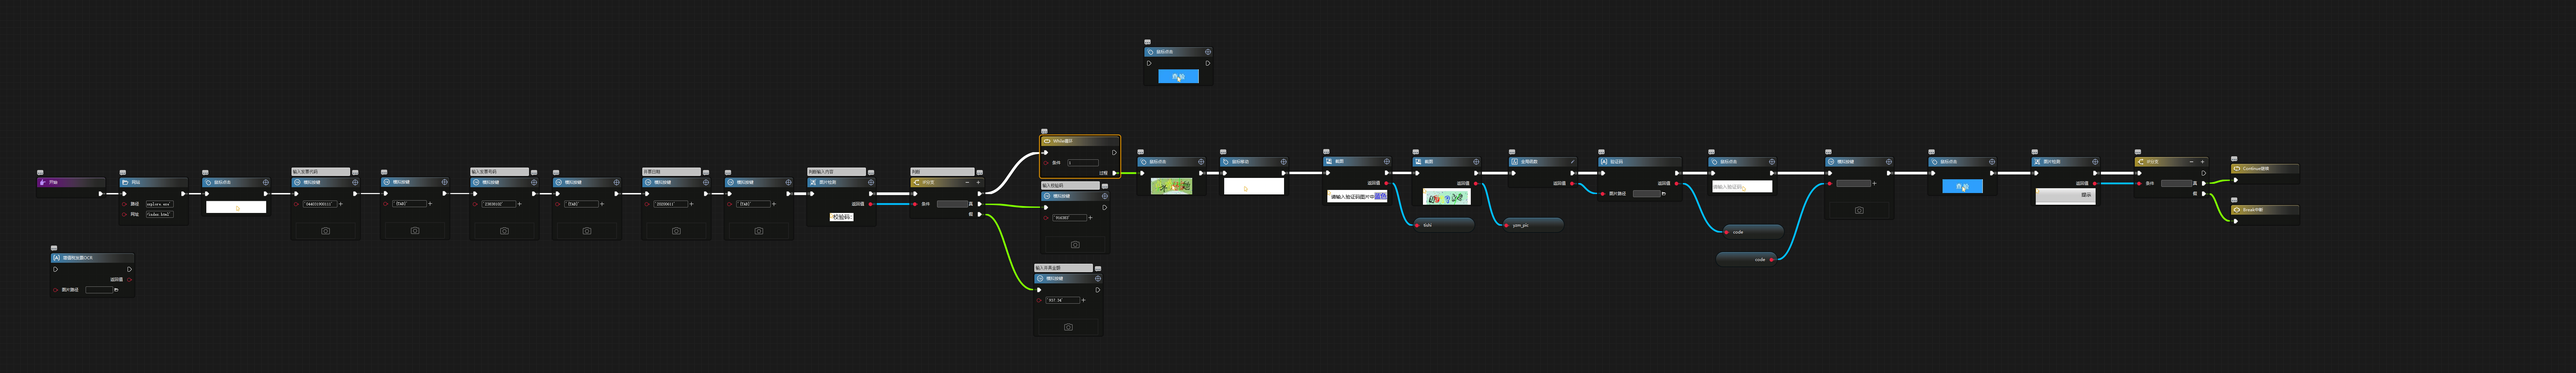
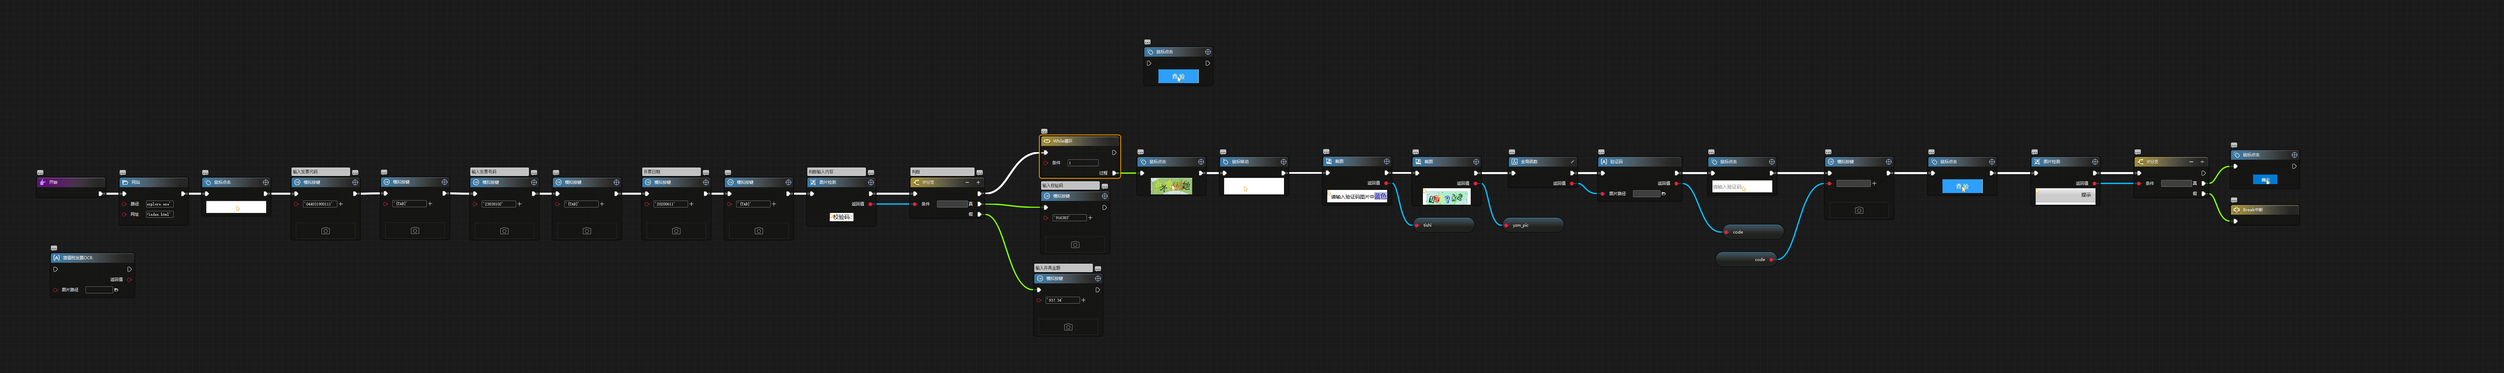
20200623153042

diff --git a/codes/Main.py b/codes/Main.py
@@ -1,5 +1,5 @@
 # coding=utf-8
-# 编译日期：2020-06-23 15:27:45
+# 编译日期：2020-06-23 15:30:42
 # 版权所有：www.i-search.com.cn
 import time
 import pdb
@@ -83,9 +83,10 @@ class lanhe_fapiao:
             # IF-N分支
             self.__logger.debug('Flow:flow1,StepNodeTag:23152627191132,Note:')
             if tvar23152545559128:
-                # Continue继续
-                self.__logger.debug('Flow:flow1,StepNodeTag:23152712119137,Note:')
-                continue
+                # 鼠标点击
+                self.__logger.debug('Flow:flow1,StepNodeTag:23152954518141,Note:')
+                iie.do_click_pos(win_title=r'国家税务总局全国增值税发票查验平台 - Internet Explorer',url=r'https://inv-veri.chinatax.gov.cn/index.html',selector=r'#popup_ok',button=r'left',curson=r'center',times=1,run_mode=r'unctrl',continue_on_error=r'break',waitfor=10)
+                time.sleep(0.8)
             else:
                 # Break中断
                 self.__logger.debug('Flow:flow1,StepNodeTag:23152722614139,Note:')

diff --git a/codes/Main_d.py b/codes/Main_d.py
@@ -1,5 +1,5 @@
 # coding=utf-8
-# 编译日期：2020-06-23 15:27:45
+# 编译日期：2020-06-23 15:30:42
 # 版权所有：www.i-search.com.cn
 import time
 import pdb
@@ -83,9 +83,10 @@ class lanhe_fapiao:
             # IF-N分支
             self.__logger.debug('Flow:flow1,StepNodeTag:23152627191132,Note:')
             if tvar23152545559128:
-                # Continue继续
-                self.__logger.debug('Flow:flow1,StepNodeTag:23152712119137,Note:')
-                continue
+                # 鼠标点击
+                self.__logger.debug('Flow:flow1,StepNodeTag:23152954518141,Note:')
+                iie.do_click_pos(win_title=r'国家税务总局全国增值税发票查验平台 - Internet Explorer',url=r'https://inv-veri.chinatax.gov.cn/index.html',selector=r'#popup_ok',button=r'left',curson=r'center',times=1,run_mode=r'unctrl',continue_on_error=r'break',waitfor=10)
+                time.sleep(0.8)
             else:
                 # Break中断
                 self.__logger.debug('Flow:flow1,StepNodeTag:23152722614139,Note:')
